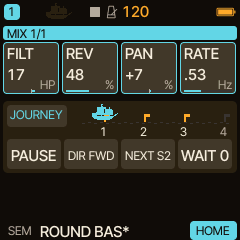
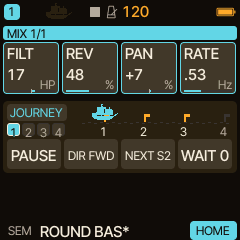
HOME chart: per-track status boxes under the bank chip
Four small boxes T1..T4 show what every track does in every bank: journey
sailing or resting (accent fill), paused or held (outline), a RANDOM morph or
GO (theme fill), idle (grey); the selected track has a bright frame. The bank
chip is shorter to make room (the SETUP chip hides the boxes). New tutorial
screen journey-status; docs and CHANGELOG updated.

Changed region(s): [[0.0292, 0.4083, 0.2917, 0.5833]]

diff --git a/experiments/home-perf/home_ui.c b/experiments/home-perf/home_ui.c
@@ -423,8 +423,29 @@ static void hp_sea(int y)                              /* y: top of the chart st
  hp_ship(hp_ship_x-14,y+2-(sail?(int)((fm1_ms>>8)&1u):0),hp_ship_left,T_ACCENT);
  if(!sail)cv_rect(hp_ship_x,y+18,2,5,T_MID);          /* the anchor line */
 }
+/* What every track is doing, under the bank chip: one small box per track. Filled in the accent colour: its journey sails or rests; outlined: its journey is
+ * paused or held; filled in the theme colour: a RANDOM morph or a GO moves it; grey: idle. The selected track has a bright frame. */
+static void hp_tracks(int x0,int y)
+{
+ for(uint32_t t=0;t<NTRK;t++){
+  int x=x0+(int)t*15;char n[4];
+  const hp_rm_state_t*e=&hp_eng[t];
+#if HP_JVN
+  const hp_jn_t*j=&hp_jn[t];
+  int jrun=j->on&&!j->paused&&!j->held,jwait=j->on&&!jrun;
+#else
+  int jrun=0,jwait=0;
+#endif
+  int mv=e->state==HP_RM_RANDOM||e->state==HP_RM_RETURN||e->state==HP_RM_RECALL;
+  uint16_t frame=t==(uint32_t)song.sel?T_TEXT:jrun||jwait?T_ACCENT:mv?T_THEME:T_LINE,fill=jrun?T_ACCENT:(!jwait&&mv)?T_THEME:T_RAISE,ink=jrun||(!jwait&&mv)?T_INK:jwait?T_ACCENT:T_MID;
+  perf_format(n,sizeof n,"%u",t+1u);
+  cv_rrect(x,y,13,13,3,frame,T_SURF);cv_rrect(x+1,y+1,11,11,2,fill,frame);
+  cv_text_in(x+1,y+2,11,&AF_S,n,ink,fill);
+ }
+}
 #else
 static void hp_sea(int y){(void)y;}                   /* no snapshots or journey in this profile: no chart */
+static void hp_tracks(int x,int y){(void)x;(void)y;}
 #endif
 static void hp_draw_home(void)
 {
@@ -463,9 +484,10 @@ static void hp_draw_home(void)
     cv_rrect(7,ya+3,60,31,4,T_ACCENT,T_SURF);
     cv_text_in(7,ya+5,60,&AF_S,"SETUP",T_INK,T_ACCENT);cv_text_in(7,ya+18,60,&AF_S,bank,T_INK,T_ACCENT);
    }else{
-    cv_rrect(7,ya+4,60,22,4,T_RAISE,T_SURF);cv_text_in(7,ya+6,60,&AF_S,bank,T_ACCENT,T_RAISE);
+    cv_rrect(7,ya+3,60,17,4,T_RAISE,T_SURF);cv_text_in(7,ya+4,60,&AF_S,bank,T_ACCENT,T_RAISE);
    }
    hp_sea(ya+2);
+   if(!action_setup)hp_tracks(7,ya+22);
   }
   #if FELUCCA_RANDOM_MORPH
   #endif

diff --git a/tools/morph_tutorial_frames.c b/tools/morph_tutorial_frames.c
@@ -57,6 +57,12 @@ int main(void){
  hold(0,700);CHECK(action_setup==1u);action_setup_turn(0,1);action_setup_turn(1,1);ready("journey-setup");action_setup_turn(0,-1);action_setup_turn(1,-1);hold(0,700);CHECK(action_setup==0u);
  /* a RANDOM morph on the same track while its journey runs */
  {uint32_t g=0;while(action_bank!=0u&&g++<8u)tap(0);}CHECK(action_bank==0u);tap(1);run_ms(400);CHECK(hp_j.held==1u);ready("journey-held");
+ /* a second track sails too: the four boxes under the bank chip show what each track does */
+ song.sel=1;go_home();action_refresh();
+ trk[1].p[P_FILT]=-20;trk[1].p[P_REV]=10;action_snap_slot=0;CHECK(hp_rm_snapshot_store(0));
+ trk[1].p[P_FILT]=60;trk[1].p[P_REV]=80;action_snap_slot=1;CHECK(hp_rm_snapshot_store(1));
+ {uint32_t g=0;while(action_bank!=ACT_BANK_JOURNEY&&g++<8u)tap(0);}
+ action_snap_slot=0;hp_eng[1].bars=4;tap(1);run_ms(500);CHECK(hp_jn[1].on);ready("journey-status");
  printf("MORPH TUTORIAL FRAMES: %u checks.\n",checks);
  return 0;
 }

diff --git a/tools/morph_tutorial_frames.py b/tools/morph_tutorial_frames.py
@@ -8,7 +8,7 @@ from PIL import Image
 ROOT=Path(__file__).resolve().parents[1]
 OUT=ROOT/"build/release-prep";IMG=ROOT/"docs/tutorials/img"
 FRAMES={"random-saved":"morph-save","random-morph":"morph-go","random-setup-set":"morph-setup",
-        "journey-off":"journey-off","random-delete":"morph-delete","journey-held":"journey-held","journey-setup":"journey-setup","journey-play":"journey-play","journey-resting":"journey-wait","journey-reverse":"journey-reverse"}
+        "journey-off":"journey-off","random-delete":"morph-delete","journey-held":"journey-held","journey-setup":"journey-setup","journey-status":"journey-status","journey-play":"journey-play","journey-resting":"journey-wait","journey-reverse":"journey-reverse"}
 def main():
     OUT.mkdir(parents=True,exist_ok=True);exe=ROOT/"build/morph-tutorial-frames"
     subprocess.run(["cc","-O2","-w","-ffp-contract=off","-Ibuild/gen","-Ifirmware/src","-DCARAVEL_ACTION_BANKS=1","-DFELUCCA_RANDOM_MORPH=1",

diff --git a/CHANGELOG.md b/CHANGELOG.md
@@ -3,7 +3,7 @@
 ## [Unreleased] - planned 0.9.0
 
 - **The SAX sample set is retired** to free 31,422 B of flash (the app slot had 352 B left after 0.8.0; the target image is now 549,704 B, 31,860 B below the slot; the per-track Random Morph / Journey work needs room). SAMPLE offers PIANO and FLUTE only. SET 3 (SAX) keeps its place and plays PIANO, like the earlier retired sets TRANH and PERC: **a sound, user preset or project that used SAX now plays PIANO**, the SAMPLE preset SAX is gone from browsing, and the GRAIN factory preset GLITCH now uses PIANO as its source (GRAIN SRC 3 plays PIANO too). Nothing else changes; the SAX recordings stay in `assets/samples-cc0` but the build no longer reads them.
-- **Random Morph snapshots are now per track (first step of per-track Random Morph and Journey).** Every track has its own four slots S1–S4 (sixteen in the project), each holding that track's own HOME controls, at most 32 targets; a control of another track pinned on the HOME is no longer part of the slot. SCOPE ALL saves (and deletes) every track's own slot at once. A journey plays the selected track's slots, the A4 key and the sea chart show that track's slots, and the owner labels (`S1:T3`, `1:T1`) and the JOURNEY track skip mask are gone. **One morph engine and one journey per track**, each with its own BARS / DEPTH / SCOPE / SHAPE / WAIT / direction (saved per track): morphs and journeys of different tracks run side by side, a RANDOM morph holds only its own track's journey, a control two tracks move belongs to the track that started last, and SCOPE ALL makes the RANDOM keys act on every track (each on its own controls and BARS). An engine holds up to 32 targets (a track whose HOME pins more cannot start a RANDOM morph). **JOURNEY SETUP** (hold BANK in the JOURNEY bank): K1 SCOPE THIS / ALL (PLAY, PAUSE and NEXT act on every track's journey, DIR and WAIT are set on all, each track keeps its own cycle) and K2 TRANSPORT FREE / CONT / START (time in the sequencer clock's own bars: Stop freezes a leg and its WAIT, a tempo change or an external clock moves it, START begins again at every Start; FREE is the 0.8.0 behaviour); both saved per track. The sequencer counts the transport's musical time in the audio block (`seq.c`). **The JOURNEY bank now follows RANDOM** in the BANK order (RANDOM, JOURNEY, STASIS, PAIR, LIVE). Host-tested with the internal clock only: the external clock is not verified.
+- **Random Morph snapshots are now per track (first step of per-track Random Morph and Journey).** Every track has its own four slots S1–S4 (sixteen in the project), each holding that track's own HOME controls, at most 32 targets; a control of another track pinned on the HOME is no longer part of the slot. SCOPE ALL saves (and deletes) every track's own slot at once. A journey plays the selected track's slots, the A4 key and the sea chart show that track's slots, and the owner labels (`S1:T3`, `1:T1`) and the JOURNEY track skip mask are gone. **One morph engine and one journey per track**, each with its own BARS / DEPTH / SCOPE / SHAPE / WAIT / direction (saved per track): morphs and journeys of different tracks run side by side, a RANDOM morph holds only its own track's journey, a control two tracks move belongs to the track that started last, and SCOPE ALL makes the RANDOM keys act on every track (each on its own controls and BARS). An engine holds up to 32 targets (a track whose HOME pins more cannot start a RANDOM morph). **JOURNEY SETUP** (hold BANK in the JOURNEY bank): K1 SCOPE THIS / ALL (PLAY, PAUSE and NEXT act on every track's journey, DIR and WAIT are set on all, each track keeps its own cycle) and K2 TRANSPORT FREE / CONT / START (time in the sequencer clock's own bars: Stop freezes a leg and its WAIT, a tempo change or an external clock moves it, START begins again at every Start; FREE is the 0.8.0 behaviour); both saved per track. The sequencer counts the transport's musical time in the audio block (`seq.c`). **The JOURNEY bank now follows RANDOM** in the BANK order (RANDOM, JOURNEY, STASIS, PAIR, LIVE). Four small boxes under the bank chip show what each track does (journey sails or rests, paused or held, a RANDOM morph moves it, idle; the selected track framed). Host-tested with the internal clock only: the external clock is not verified.
 - **Project format version 3.** The sixteen sets fit the same flash copy (host worst case 2,355 of 3,328 compressed bytes). **0.8.0 and earlier refuse a version-3 project** (`PERF PROJECT INVALID`): back up before moving between versions. Projects from 0.7.1 to 0.8.0 load and migrate: each target of an old shared slot goes to the slot of its own track (global and Pair controls to the saving track), at most 32 per slot; the rest is dropped and the load says `n TARGETS DROPPED`.
 
 ## [0.8.0] - 2026-11-01

diff --git a/docs/tutorials/random-morph-journey.md b/docs/tutorials/random-morph-journey.md
@@ -79,6 +79,10 @@ Tap **A2** to reverse. The message says when it happens: **REVERSE AFTER S1** me
 
 Select the track (T1 to T4) before you press PLAY: the journey plays **that track's** four slots, and the sea chart shows them. Saving or deleting a slot on that track ends its journey; the slots of the other tracks are not touched. **Every track has its own engine and its own settings** (BARS, DEPTH, SCOPE, SHAPE, WAIT, direction), so you can start a journey on T2 while T1's keeps sailing, each with its own length, curve and rests. The sea chart and the keys always show the selected track.
 
+**Which tracks run is always visible**: the four small boxes under the bank chip are the tracks T1 to T4. Filled in the accent colour: that track's journey sails or rests; outlined: its journey is paused or held; filled in the theme colour: a RANDOM morph or a GO moves it; grey: nothing runs. The selected track has a bright frame (and the chart and keys show it). The screen below shows T2 selected and sailing while T1's journey is held by its own RANDOM morph.
+
+![Two tracks: T2 sails, T1's journey is held](img/journey-status.png)
+
 Hold **BANK** in the JOURNEY bank for its own SETUP: **K1 SCOPE** `THIS` or `ALL` (with ALL, PLAY, PAUSE and NEXT act on every track's journey, each on its own slots), **K2 TRANSP** `FREE`, `CONT` or `START`. FREE keeps time in milliseconds as before. CONT counts the sequencer's own bars: a **Stop freezes the leg and its WAIT**, a tempo change speeds it up, and an external MIDI clock is followed. START is CONT and also **begins the journey again at every Start**.
 
 ![JOURNEY SETUP: SCOPE ALL, TRANSP CONT](img/journey-setup.png)

diff --git a/docs/morph-journey.md b/docs/morph-journey.md
@@ -80,6 +80,7 @@ with its own phase, length and rests; the keys, the A4 label and the sea chart a
   to the same slot (or, if it was resting, with the rest of the pause). The picture below shows it. **A1 while held is PAUSE**: then it stays
   paused until you press A1 again. **A3 NEXT** or **A3 GO Sx** in RANDOM steer the journey to a slot at once. RANDOM's A2 FREEZE on the journey's own
   leg holds it like PAUSE does; a frozen RANDOM morph keeps the journey held.
+- **What every track does is always shown, in every bank:** four small boxes under the bank chip are T1 to T4 (accent fill: its journey sails or rests; outline: paused or held; theme fill: a RANDOM morph or GO moves it; grey: idle; bright frame: the selected track).
 - **What is running is always shown, in every bank.** The sea chart under the HOME rows is the status display: the caravel is the running morph or journey.
   It **sails** from the slot it left to the slot it heads for (by the progress of the leg) and bobs while it moves; it lies **at anchor** (a short line
   below the hull) while the journey is off, waits, is paused or held, or no morph runs. A RANDOM morph or a GO to a slot also sets it sailing. The
